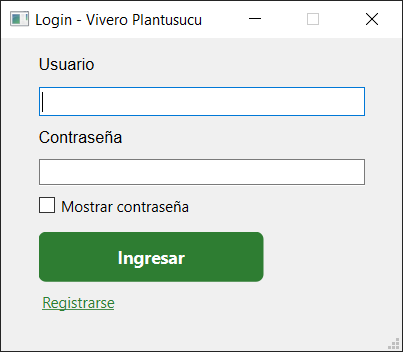
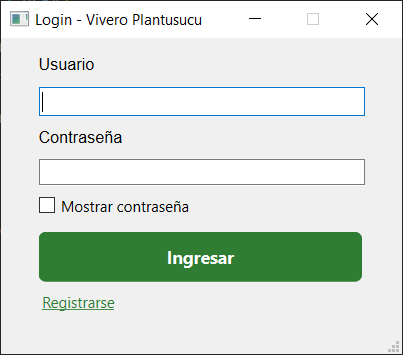
permito login con Enter y mejoro diseño

diff --git a/ui/windows/login_window.py b/ui/windows/login_window.py
@@ -35,6 +35,9 @@ class LoginWindow(QMainWindow):
             self.mostrar_clave
         )
         self.boton_registrarse.clicked.connect(self.abrir_registro)
+        
+        self.usuario_input.returnPressed.connect(self.clave_input.setFocus)
+        self.clave_input.returnPressed.connect(self.autenticar)
 
     def abrir_registro(self):
         dialog = RegistrarUsuarioPopup(self.registrar_usuario_use_case, self)
